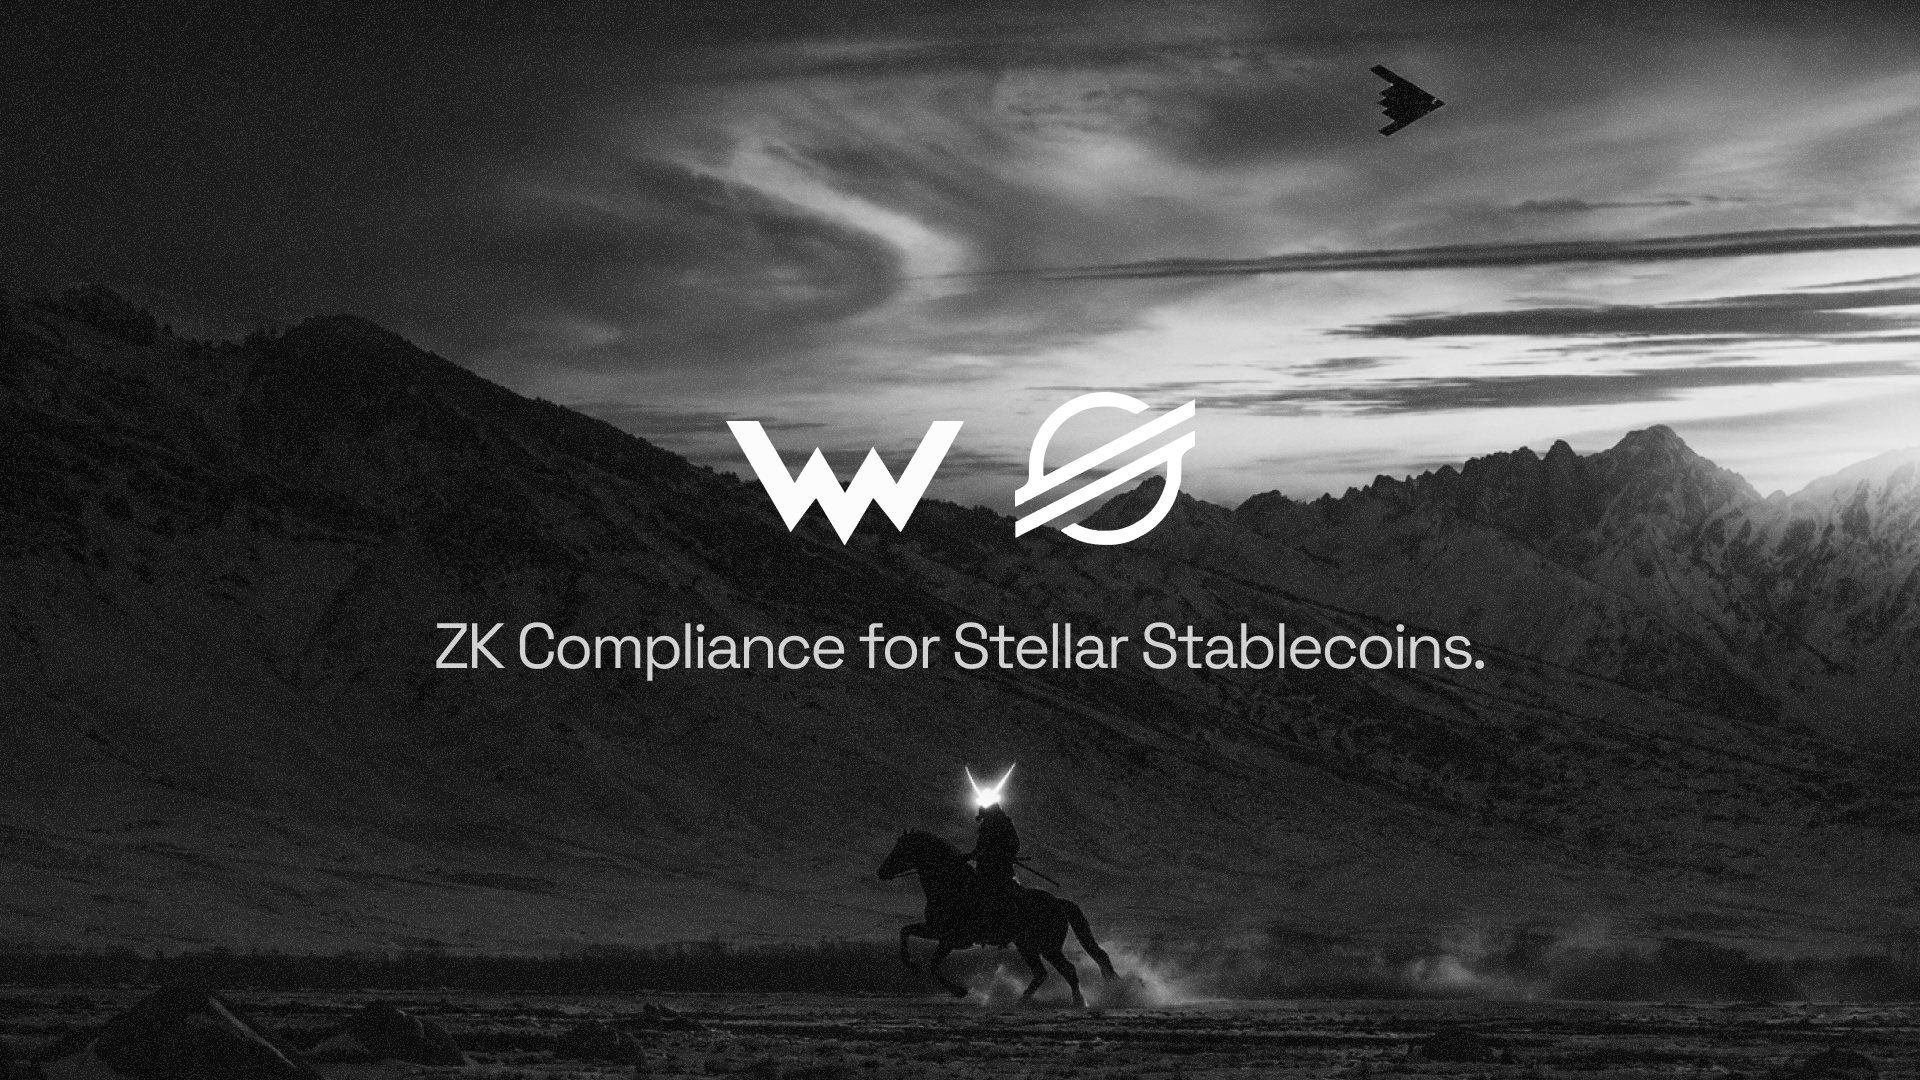
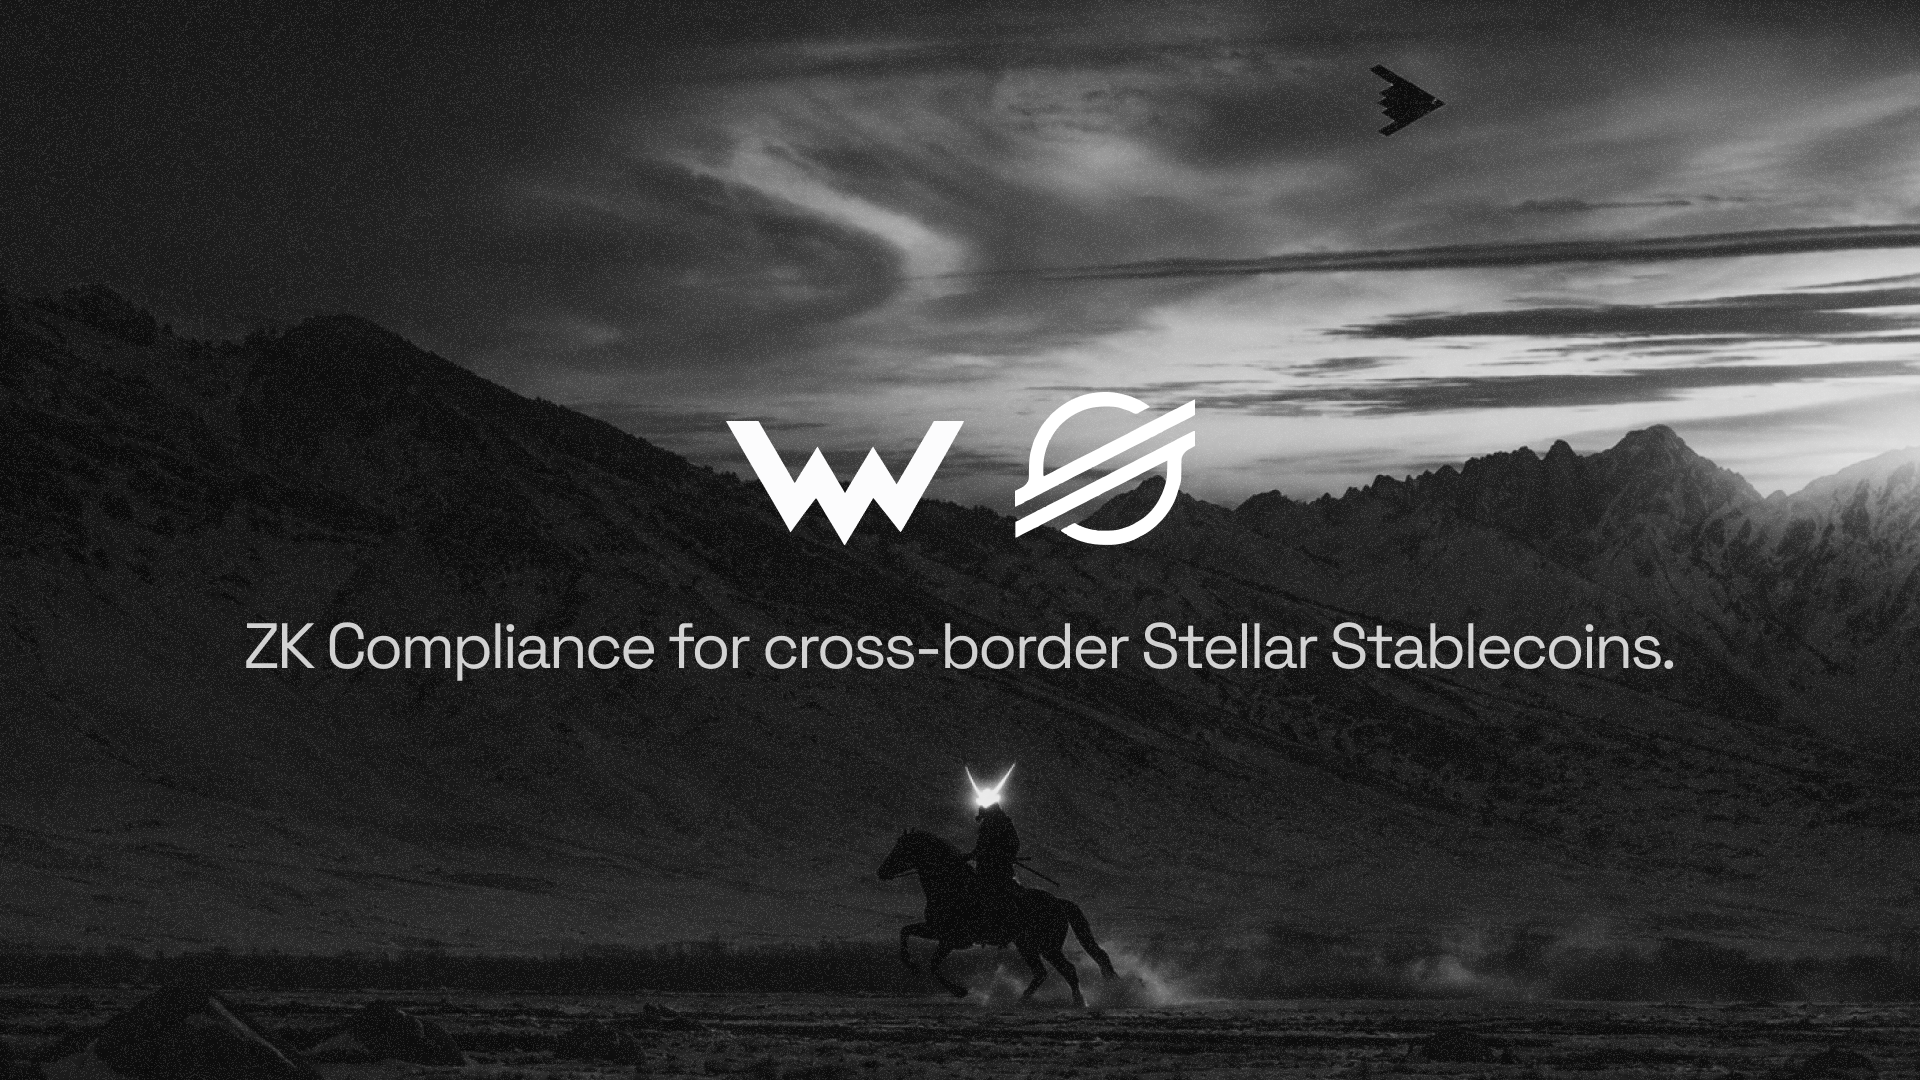
chore: rename deployment hosts to wisp-* and tighten env gitignore
Point Render/Vercel at wisp-issuer and wisp-zk, add production env reference,
and keep local .env files out of git while tracking public .wisp deploy state.

Changed region(s): [[0.3438, 0.0917, 1.0, 0.4889], [0.125, 0.5806, 0.875, 0.6417], [0.5938, 0.8861, 0.625, 0.9472]]

diff --git a/frontend/src/content/copy.ts b/frontend/src/content/copy.ts
@@ -25,7 +25,7 @@ export const COPY = {
   },
 
   paradoxAct: {
-    eyebrow: "PRIVATE BY DEFAULT",
+    eyebrow: "PRIVACY MOAT",
     headline: "Keep the proof.",
     headlineAccent: "Drop the data.",
     withoutZk: {
@@ -54,7 +54,7 @@ export const COPY = {
   },
 
   engine: {
-    eyebrow: "HOW WISP WORKS",
+    eyebrow: "WORKFLOW MOAT",
     headlineLead: "From issuer root",
     headlineAccent: "to compliant settlement.",
     pipeline: {
@@ -106,7 +106,7 @@ export const COPY = {
   },
 
   builders: {
-    eyebrow: "CROSS-BORDER FLOWS",
+    eyebrow: "CORRIDOR MOAT",
     headlineRest: "Built for",
     headlineAccent: "cross-border stablecoin flows.",
     sub: "Wisp targets regulated corridors where issuers need compliant Stellar settlement.",
@@ -151,7 +151,7 @@ export const COPY = {
   },
 
   sdk: {
-    eyebrow: "PORTABLE SDK",
+    eyebrow: "PORTABILITY MOAT",
     headlineLead: "Portable issuer SDK.",
     headlineAccent: "Plug into any issuer.",
     sub: "Integrate once, prove in the browser, and switch issuers without rewriting the stack.",
@@ -175,7 +175,7 @@ await client.settleWithWallet(proven, pkg, wallet);`,
   },
 
   complianceCard: {
-    eyebrow: "TRANSFER LOGIC",
+    eyebrow: "TRANSFER MOAT",
     headlineAccent: "Verify once.",
     headlineRest: "Prove every transfer.",
     sub: "One issuer credential. A fresh proof for every transfer.",
@@ -205,7 +205,7 @@ await client.settleWithWallet(proven, pkg, wallet);`,
 
   move: {
     closer: {
-      eyebrow: "LIVE RAILS",
+      eyebrow: "DEPLOYMENT MOAT",
       headline: "Ready for live issuer rails.",
       sub: "Portable zk compliance infrastructure for cross-border Stellar stablecoins.",
       ctas: {

diff --git a/frontend/vite.config.ts b/frontend/vite.config.ts
@@ -27,7 +27,7 @@ export default defineConfig({
     "process.env": {},
   },
   optimizeDeps: {
-    include: ["buffer", "snarkjs", "@stellar/stellar-sdk"],
+    include: ["buffer", "snarkjs"],
     esbuildOptions: {
       define: {
         global: "globalThis",

diff --git a/README.md b/README.md
@@ -25,7 +25,7 @@ IDs are written to `.wisp/*.env` after deploy. Redeploy: [`scripts/deploy/`](scr
 
 | Target | URL / command |
 | ------ | ------------- |
-| **Live** | [amoeba-zk.vercel.app](https://amoeba-zk.vercel.app/) |
+| **Live** | [wisp-zk.vercel.app](https://wisp-zk.vercel.app/) |
 | Local | `pnpm dev:frontend` → `:5173` |
 
 Routes: `/` landing · `/demo` prove/settle console · `/compliance` proofs/audit/corridors. Config: [`frontend/.env.example`](frontend/.env.example).
@@ -34,26 +34,33 @@ Routes: `/` landing · `/demo` prove/settle console · `/compliance` proofs/audi
 
 | Target | URL / command |
 | ------ | ------------- |
-| **Live** | [amoeba-issuer.onrender.com](https://amoeba-issuer.onrender.com) |
+| **Live** | [wisp-issuer.onrender.com](https://wisp-issuer.onrender.com) |
 | Local | `cargo run -p issuer-service` → `:3000` |
 
 Production uses Postgres (`SUPABASE_DB_URL`), `WISP_ENV=production`. API and env: [Issuer setup](#issuer-setup) · [`backend/crates/issuer-service/`](backend/crates/issuer-service/).
 
 ---
 
-## SDK Packages
+## Published Packages
 
 <img src="docs/portable-sdk.png" width="100%" alt="Wisp works alongside your issuer." />
 
 Plug-and-play npm packages — install, configure env, run.
 
-| Package | Purpose | README |
-| ------- | ------- | ------ |
-| `@wisp_/js` | Poseidon2, Merkle, nullifier, witness builder | [`packages/wisp-js/README.md`](packages/wisp-js/README.md) |
-| `@wisp_/sdk` | Prove, settle, audit compliant transfers | [`sdk/README.md`](sdk/README.md) |
-| `@wisp_/issuer-sdk` | Register issuers, publish roots on-chain | [`issuer-sdk/README.md`](issuer-sdk/README.md) |
+| Package | Version | Purpose | README |
+| ------- | ------- | ------- | ------ |
+| `@wisp_/js` | `0.2.0` | Poseidon2, Merkle, nullifier, witness builder | [`packages/wisp-js/README.md`](packages/wisp-js/README.md) |
+| `@wisp_/compliance` | `0.2.0` | Generated client for the compliance contract | [`bindings/README.md`](bindings/README.md) |
+| `@wisp_/verifier` | `0.2.0` | Generated client for the Groth16 verifier contract | [`bindings/README.md`](bindings/README.md) |
+| `@wisp_/bindings` | `0.2.0` | Canonical proof package + public input ABI | [`bindings/README.md`](bindings/README.md) |
+| `@wisp_/sdk` | `0.2.0` | Prove, settle, audit compliant transfers | [`sdk/README.md`](sdk/README.md) |
+| `@wisp_/issuer-sdk` | `0.2.0` | Register issuers, publish roots on-chain | [`issuer-sdk/README.md`](issuer-sdk/README.md) |
 
-Also: [`@wisp_/bindings`](bindings/README.md) (canonical 17-field ABI) · [`@wisp_/web`](frontend/) (demo UI, workspace-only).
+Demo UI remains workspace-only: [`@wisp_/web`](frontend/).
+
+```bash
+npm install @wisp_/sdk@0.2.0 @wisp_/js@0.2.0
+```
 
 Publish dry-run: `./scripts/publish/publish-packages.sh --dry-run`
 
@@ -165,7 +172,7 @@ Canonical field order: [`bindings/public-inputs.json`](bindings/public-inputs.js
 | ------- | ----------- |
 | `pnpm compile:circuit` | Compile Circom circuit |
 | `pnpm setup:circuit` | One-person trusted setup |
-| `pnpm build:js` | Build `@wisp_/js` + `@wisp_/sdk` |
+| `pnpm build:js` | Build all publishable TypeScript packages |
 | `pnpm gen:bindings` | Regenerate ABI bindings |
 | `pnpm prove` / `pnpm verify` | Local prove + verify |
 | `pnpm dev:frontend` | Demo UI dev server |

diff --git a/sdk/README.md b/sdk/README.md
@@ -5,7 +5,7 @@ TypeScript SDK for proving, settling, and auditing Wisp compliant transfers on S
 ## Install
 
 ```bash
-npm install @wisp_/sdk @wisp_/js
+npm install @wisp_/sdk@0.2.0 @wisp_/js@0.2.0
 ```
 
 Peer deps are bundled; you also need circuit artifacts (WASM + zkey) for proving.
@@ -97,4 +97,5 @@ pnpm --filter @wisp_/sdk test
 
 - Crypto primitives: [`@wisp_/js`](../packages/wisp-js/README.md)
 - Issuer operations: [`@wisp_/issuer-sdk`](../issuer-sdk/README.md)
-- Public input ABI: [`bindings/README.md`](../bindings/README.md)
+- Public input ABI: [`@wisp_/bindings`](../bindings/README.md)
+- Contract clients: `@wisp_/compliance@0.2.0`, `@wisp_/verifier@0.2.0`

diff --git a/bindings/README.md b/bindings/README.md
@@ -2,6 +2,20 @@
 
 Canonical ABI and encoding rules for the compliance corridor Groth16 circuit.
 
+## Published packages
+
+```bash
+npm install @wisp_/bindings@0.2.0
+npm install @wisp_/compliance@0.2.0
+npm install @wisp_/verifier@0.2.0
+```
+
+| Package | Purpose |
+| ------- | ------- |
+| `@wisp_/bindings` | Canonical proof package schema + public input helpers |
+| `@wisp_/compliance` | Generated Soroban client for the compliance contract |
+| `@wisp_/verifier` | Generated Soroban client for the verifier contract |
+
 ## Public inputs (17 fields)
 
 Field order is defined in [`public-inputs.json`](public-inputs.json) and generated into:

diff --git a/issuer-sdk/README.md b/issuer-sdk/README.md
@@ -5,7 +5,7 @@ TypeScript SDK for operating an Wisp issuer — register on-chain, manage corrid
 ## Install
 
 ```bash
-npm install @wisp_/issuer-sdk @wisp_/sdk @wisp_/js
+npm install @wisp_/issuer-sdk@0.2.0 @wisp_/sdk@0.2.0 @wisp_/js@0.2.0
 ```
 
 ## Quick start
@@ -114,4 +114,5 @@ pnpm --filter @wisp_/issuer-sdk test
 
 - End-user prove/settle: [`@wisp_/sdk`](../sdk/README.md)
 - Witness/crypto: [`@wisp_/js`](../packages/wisp-js/README.md)
+- Contract clients: `@wisp_/compliance@0.2.0`, `@wisp_/verifier@0.2.0`
 - Issuer HTTP service: [`backend/crates/issuer-service/`](../backend/crates/issuer-service/)

diff --git a/packages/wisp-js/README.md b/packages/wisp-js/README.md
@@ -7,7 +7,7 @@ Low-level building block; most apps should use [`@wisp_/sdk`](../../sdk/README.m
 ## Install
 
 ```bash
-npm install @wisp_/js
+npm install @wisp_/js@0.2.0
 ```
 
 ## Quick start
